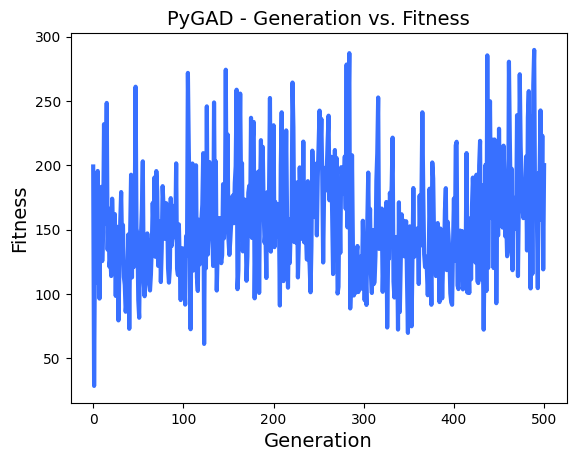
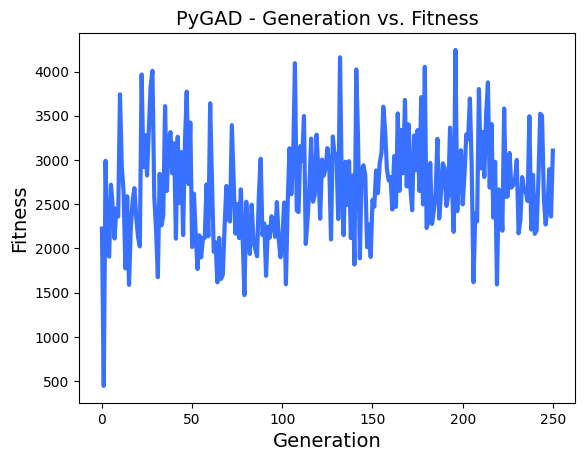
push before pc switch

diff --git a/heartrunner/ai/gad.py b/heartrunner/ai/gad.py
@@ -7,7 +7,7 @@ from random import uniform
 
 ALL_TASKS: list[hct.Task] = []
 CURRENT_TASKS: list[hct.Task] = []
-STATE = numpy.zeros(2500)
+STATE = numpy.zeros(20)
 PREV_TIME = 0
 SAMPLE_CHANCE = 0.03
 
@@ -38,9 +38,9 @@ def predict_with_cost(runners: list[int], cost: list[int], sol_idx: int):
 def process(task: hct.Task, sol_idx: int):
     global PREV_TIME, STATE
 
-    STATE -= (task.time - PREV_TIME)
-    STATE = STATE.clip(min=0)
-    PREV_TIME = task.time
+    # STATE -= (task.time - PREV_TIME)
+    # STATE = STATE.clip(min=0)
+    # PREV_TIME = task.time
 
     predict_with_cost(task.runners, task.p_costs, sol_idx)
     predict_with_cost(task.runners, task.a_costs, sol_idx)
@@ -49,8 +49,9 @@ def process(task: hct.Task, sol_idx: int):
 
 
 def fitness_func(solution, sol_idx):
-    latency_sum = sum([process(task, sol_idx) for task in CURRENT_TASKS])
-    return 10000000 / latency_sum
+    # latency_sum = sum([process(task, sol_idx) for task in CURRENT_TASKS])
+    latencies = [process(task, sol_idx) for task in CURRENT_TASKS]
+    return 10000000 / latencies[-1]
 
 
 def callback_generation(ga_instance):
@@ -70,13 +71,13 @@ def callback_generation(ga_instance):
 
 def converter(json_line):
     task = hct.Task.from_json(json_line)
-    task.runners = list(map(lambda r: r % 100, task.runners))
+    task.runners = list(map(lambda r: r % 20, task.runners))
     return task
 
 
 if __name__ == "__main__":
     with open("../../data/training/T3600-R2000-C10-A1.json", "r") as task_file:
-        ALL_TASKS = list(map(hct.Task.from_json, json.load(task_file)))
+        ALL_TASKS = list(map(converter, json.load(task_file)))
 
     # roughly 100 tasks
     CURRENT_TASKS = sample_tasks(SAMPLE_CHANCE)
@@ -84,26 +85,26 @@ if __name__ == "__main__":
     num_solutions = 6
     GANN_instance = pygad.gann.GANN(num_solutions=num_solutions,
                                     num_neurons_input=20,
-                                    num_neurons_hidden_layers=[40],
+                                    num_neurons_hidden_layers=[100,100,100,100,100],
                                     num_neurons_output=10,
                                     hidden_activations="relu",
                                     output_activation="softmax")
 
     population_vectors = pygad.gann.population_as_vectors(GANN_instance.population_networks)
 
-    ga_instance = pygad.GA(num_generations=500,
+    ga_instance = pygad.GA(num_generations=250,
                            num_parents_mating=4,
                            initial_population=population_vectors.copy(),
                            fitness_func=fitness_func,
-                           mutation_percent_genes=5,
-                           init_range_low=-2,
-                           init_range_high=2,
+                           mutation_percent_genes=10,
+                           init_range_low=-1,
+                           init_range_high=1,
                            parent_selection_type="tournament",
                            K_tournament=3,
                            crossover_type="single_point",
                            mutation_type="random",
-                           random_mutation_max_val=0.2,
-                           random_mutation_min_val=-0.2,
+                           random_mutation_max_val=0.05,
+                           random_mutation_min_val=-0.05,
                            keep_parents=0,
                            keep_elitism=0,
                            on_generation=callback_generation)
